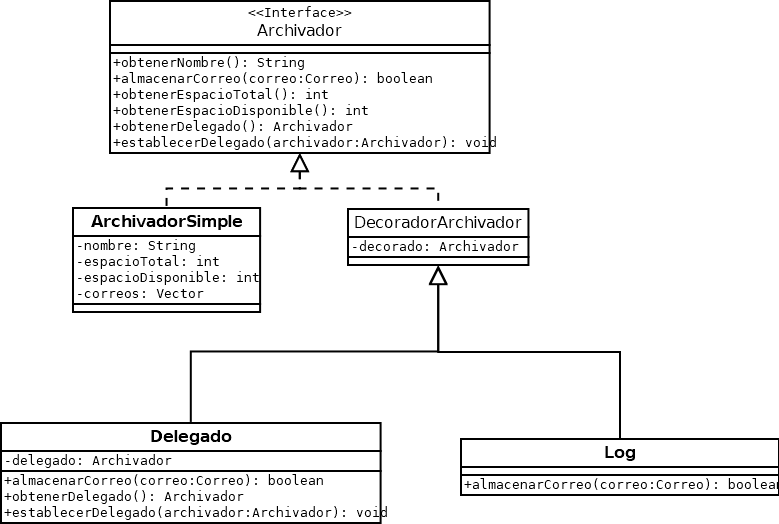
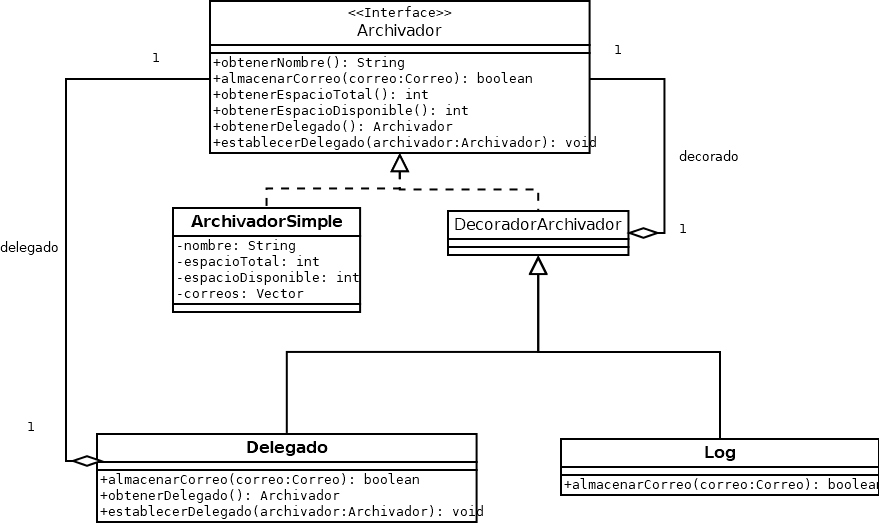
diagramas corregidos + primer test unitario + ¿maven actualizado?

diff --git a/src/test/java/gal/udc/fic/vvs/email/AppTest.java b/src/test/java/gal/udc/fic/vvs/email/AppTest.java
@@ -1,20 +1,36 @@
 package gal.udc.fic.vvs.email;
 
+import static org.junit.Assert.assertEquals;
 import static org.junit.Assert.assertTrue;
 
+import java.lang.reflect.InvocationTargetException;
+import java.lang.reflect.Method;
+
 import org.junit.Test;
+
+import gal.udc.fic.vvs.email.archivo.Texto;
 
 /**
  * Unit test for simple App.
  */
-public class AppTest 
-{
+public class AppTest {
     /**
      * Rigorous Test :-)
      */
     @Test
-    public void shouldAnswerWithTrue()
-    {
-        assertTrue( true );
+    public void shouldAnswerWithTrue() {
+        assertTrue(true);
+    }
+
+    @Test
+    public void testTextoObtenerMimeType() throws NoSuchMethodException, SecurityException, IllegalAccessException,
+            IllegalArgumentException, InvocationTargetException {
+        Texto texto = new Texto("nombre", "contenido");
+
+        Method method = Texto.class.getDeclaredMethod("obtenerMimeType");
+        method.setAccessible(true);
+        String output = (String) method.invoke(texto);
+ 
+        assertEquals(output, "text/plain");
     }
 }
